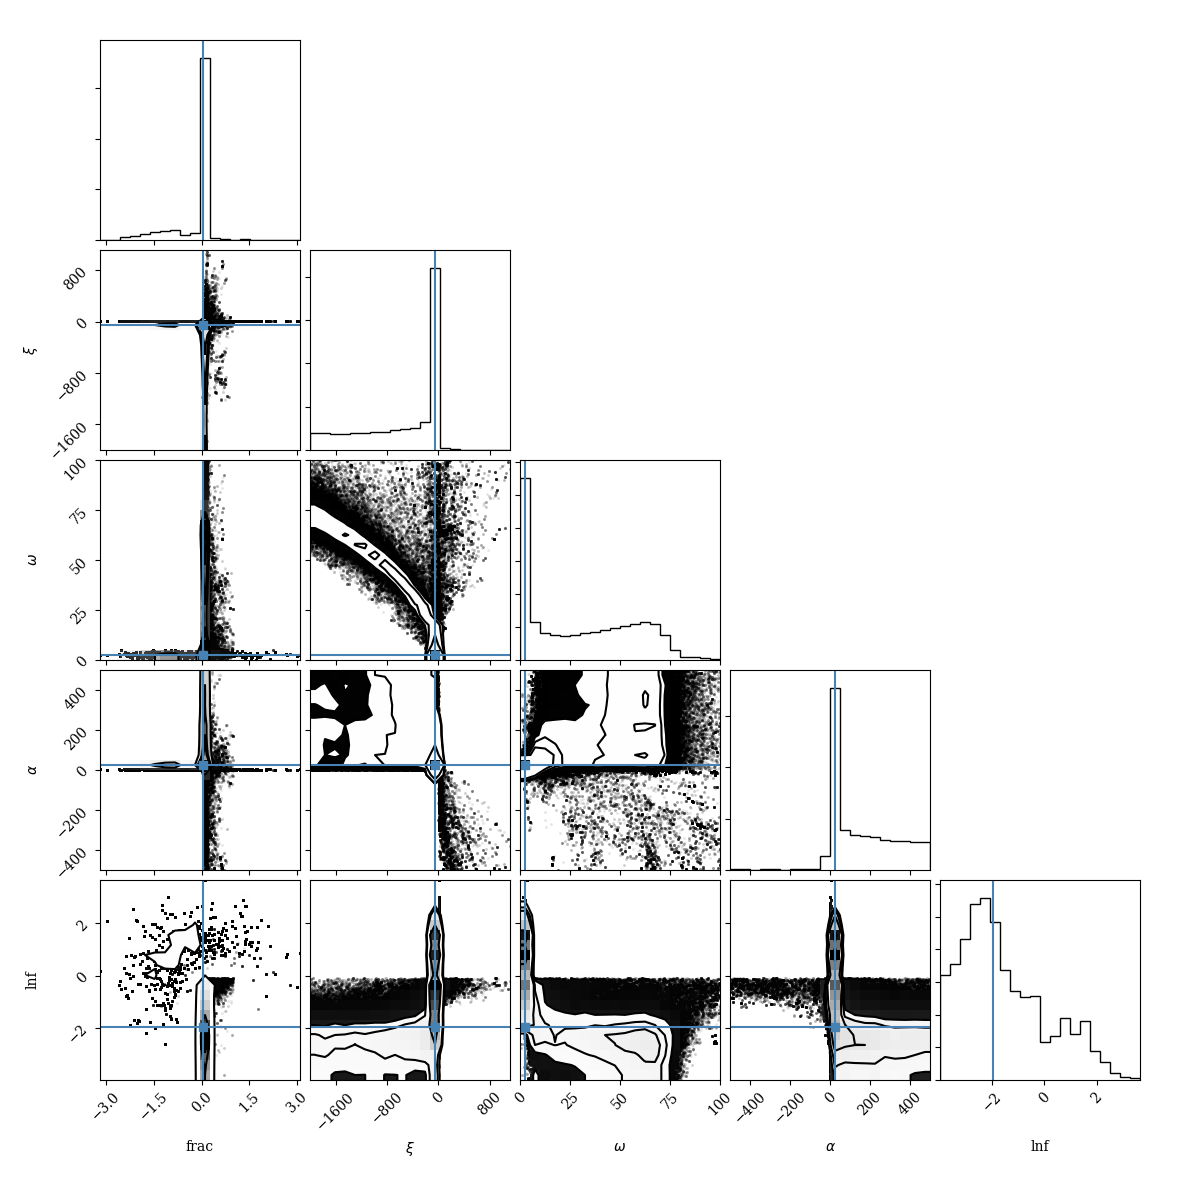
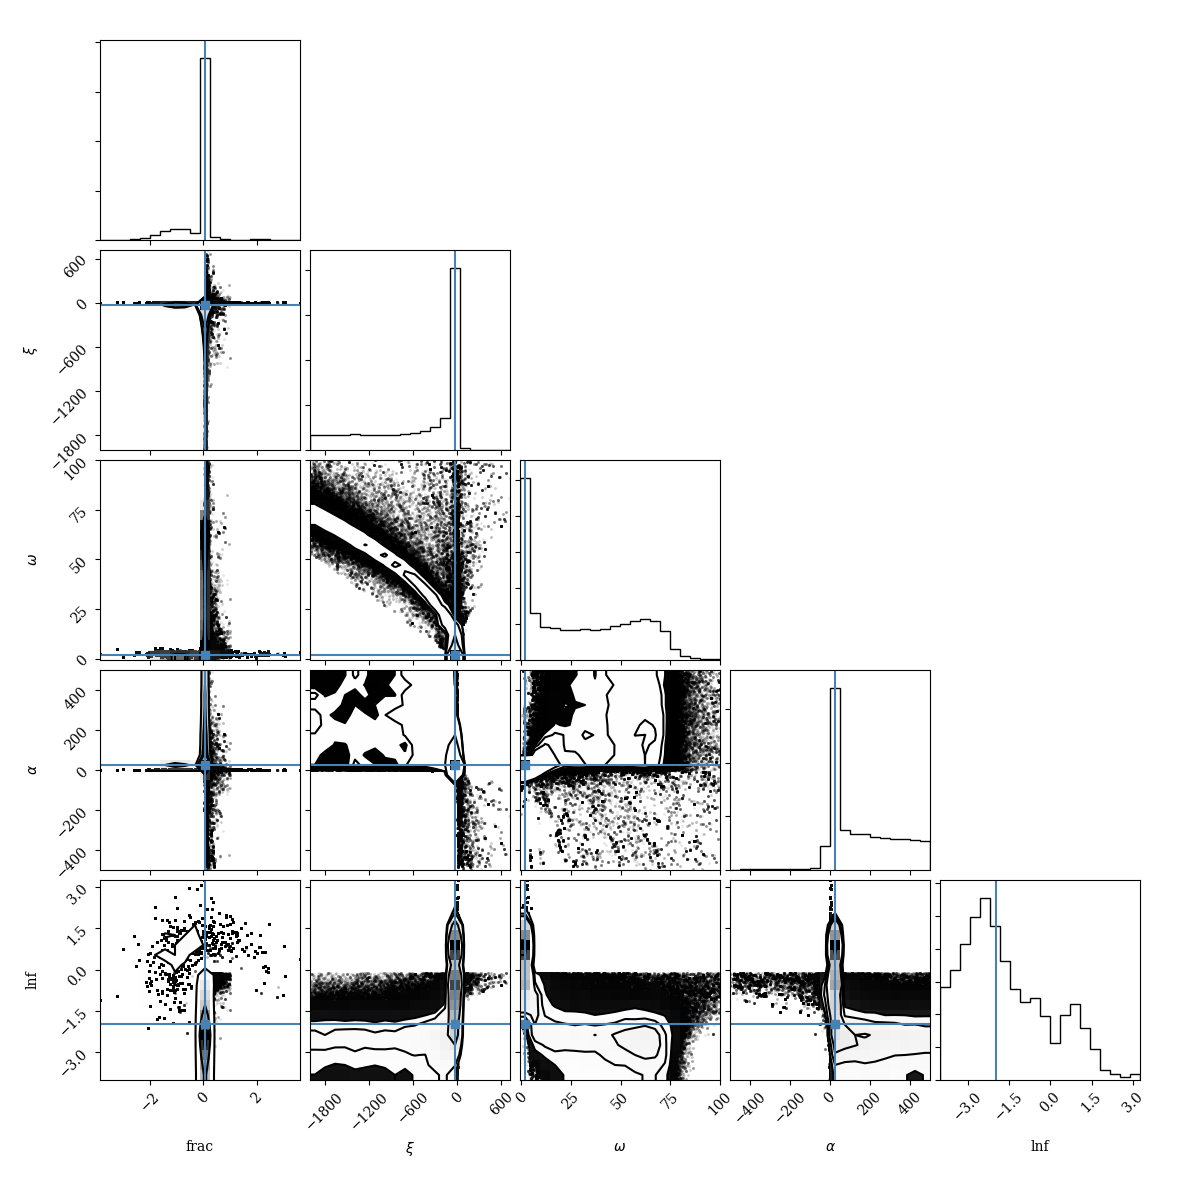
modified:   MCMC_SFD.py 	modified:   temporary.png

diff --git a/analysis/scripts/MCMC_SFD.py b/analysis/scripts/MCMC_SFD.py
@@ -33,9 +33,9 @@ def dtdfit(time,*p):
 
 def lnprior(p):
     ff, m, w, k, lnf = p
-    if abs(m) < 0.1 or abs(w) < 0.1 or abs(k) < 0.1:
-        return -np.inf
-    elif 0.0 < ff < 1.0 and -2000.0 < m < 2000.0 and 0.1 < w < 100.0 and -500.0 < k < 500.0 and -4.0 < lnf < -0.1:
+    ## if abs(m) < 10. or abs(w) < 10. or abs(k) < 10.:
+    ##     return -np.inf
+    if 0.0 < ff < 1.0 and -2000.0 < m < 2000.0 and 0.01 < w < 100.0 and -500.0 < k < 500.0 and -4.0 < lnf < -0.1:
         return 0.0
     else:
         return -np.inf
